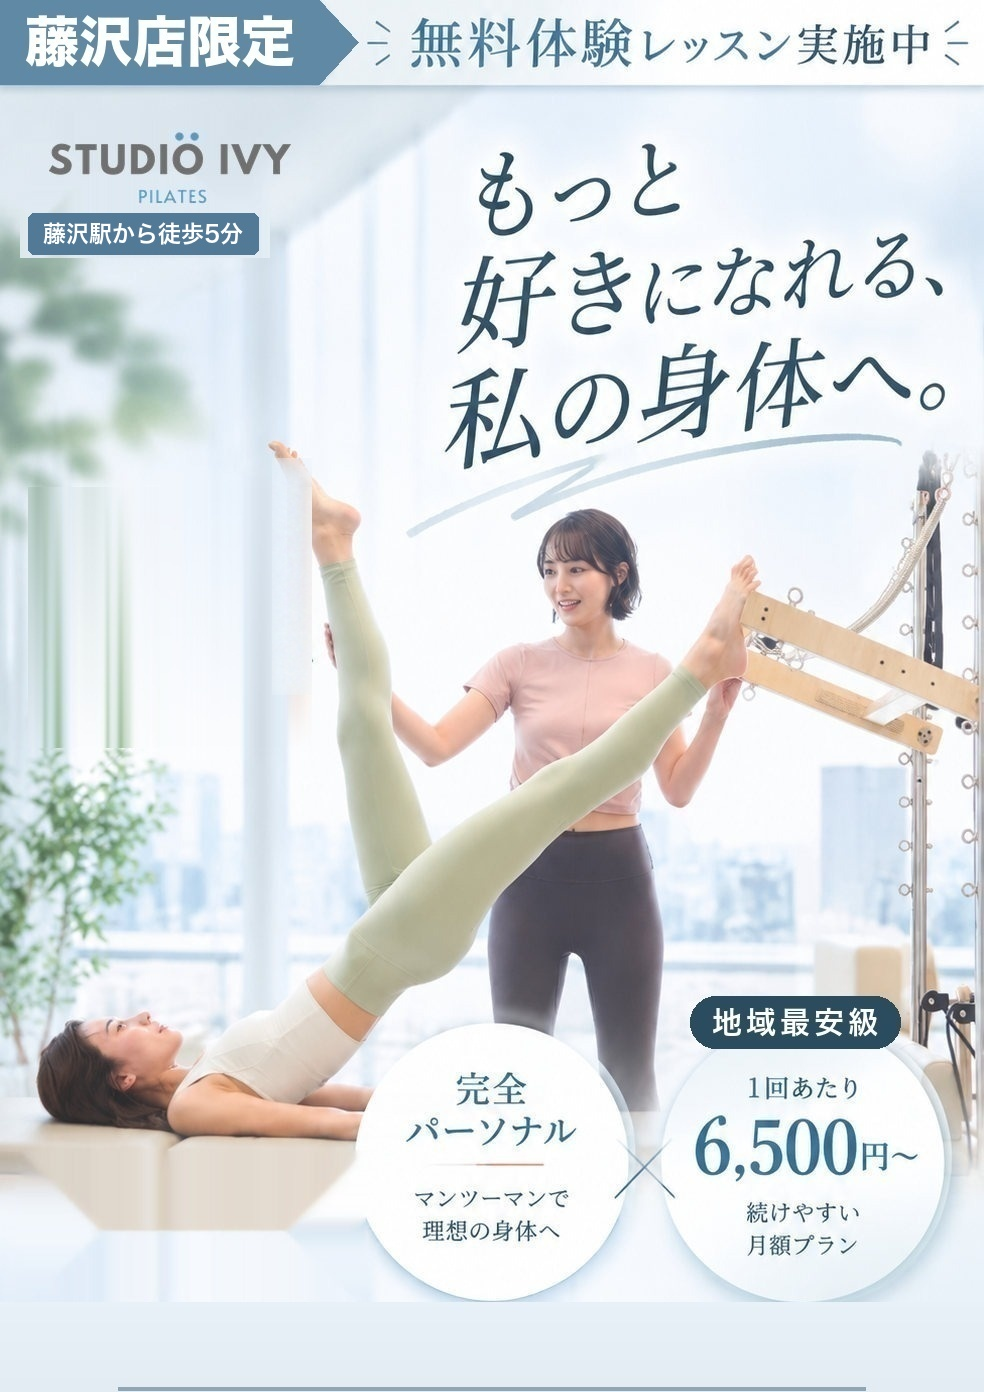
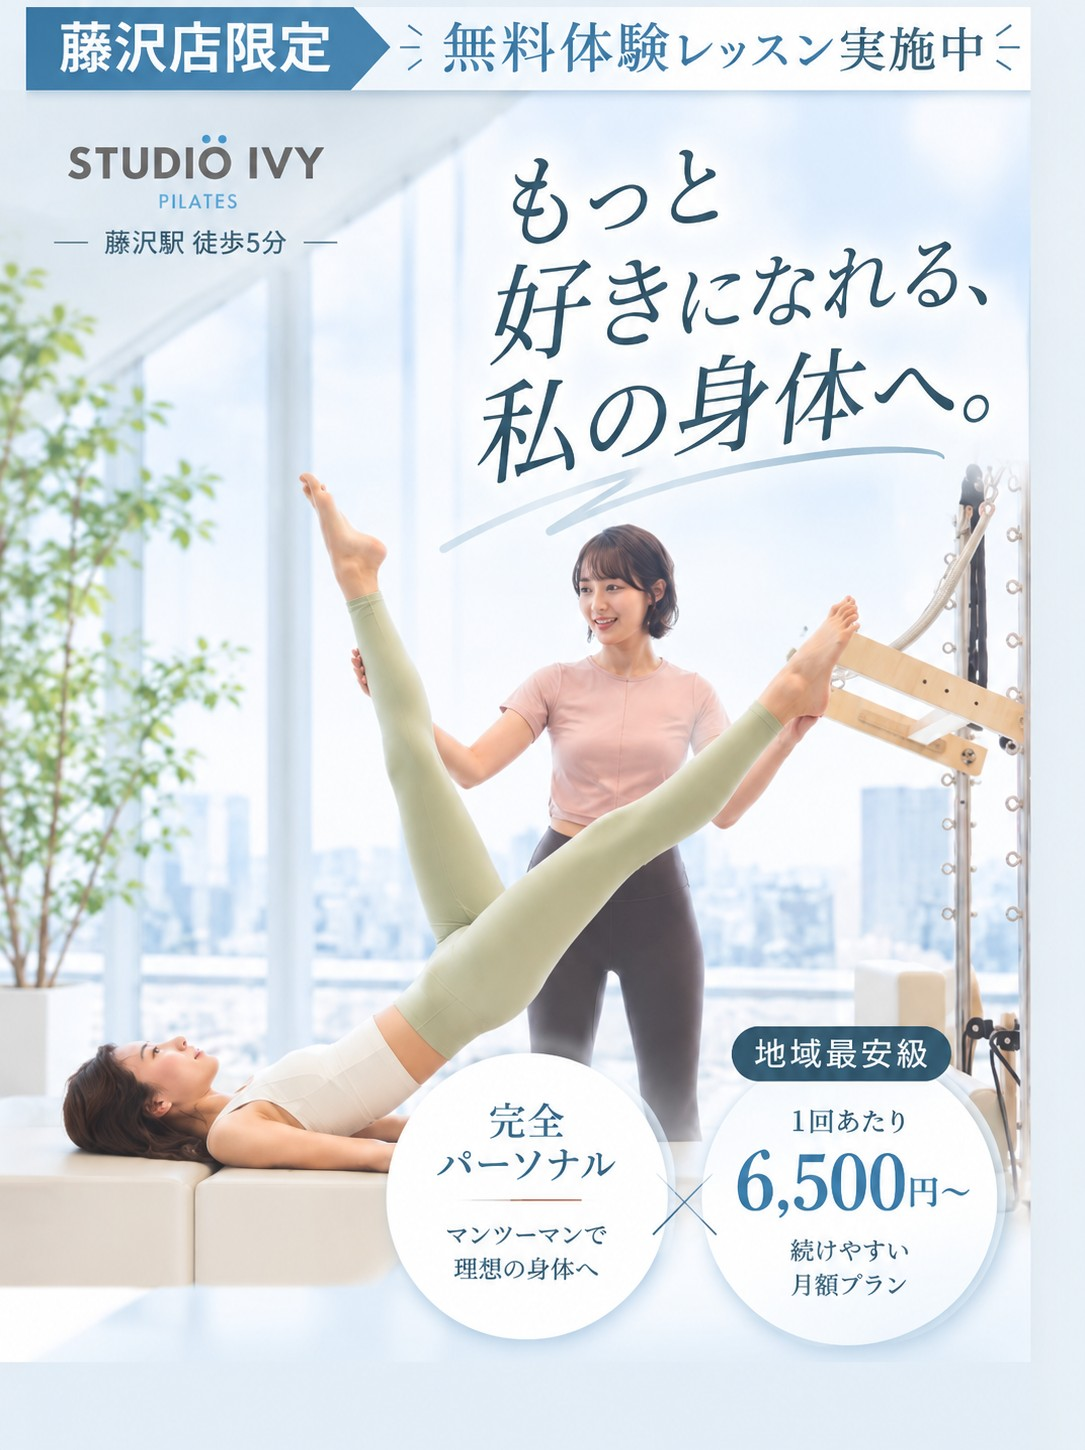
ivy-test: FV画像を顧客支給の最新版に差し替え
比率が984/1392から1085/1450に変わったため、FullBleedのratioも
合わせて更新。テキスト内容（藤沢店限定・無料体験レッスン実施中・
完全パーソナル×地域最安級など）は従来のimgAltと一致しているため
config.tsの変更は不要だった。

diff --git a/apps/lp/clients/ivy-test/page.tsx b/apps/lp/clients/ivy-test/page.tsx
@@ -563,7 +563,7 @@ export default function Page() {
               戻すときはここに元のブロックを書き戻す。 */}
           <FullBleed
             img={c.topImage.img}
-            ratio="984 / 1392"
+            ratio="1085 / 1450"
             alt={c.topImage.imgAlt}
           />
 
